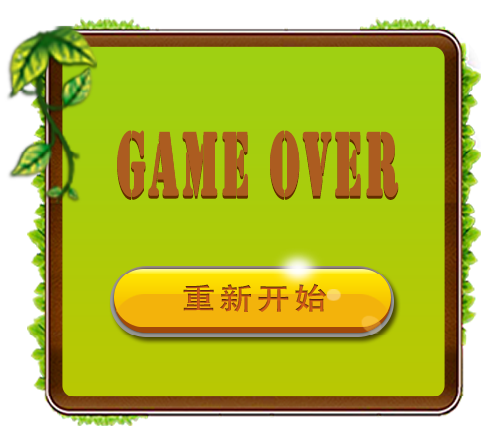
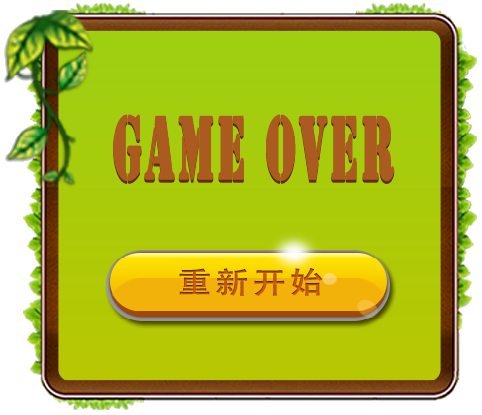
增加进度条

diff --git a/index.html b/index.html
@@ -28,7 +28,7 @@
             left: 0%;
             width: 100%;
             height: 100%;
-            background-color: #ffffff;
+            background-color: #f6fcff;
             z-index: 1001;
             -moz-opacity: 0.8;
             opacity: .80;
@@ -39,10 +39,9 @@
             display: none;
             position: absolute;
             top: 18%;
-            left: 30%;
-            width: 405px;
-            height: 405px;
-            background-color: white;
+            left: 35%;
+            width: 505px;
+            height: 505px;
             z-index: 1002; /* 数字的大小指明了div的相对层，数字大的在上层 */
             overflow: auto;
         }
@@ -59,7 +58,7 @@
 </div>
 
 <div id="game_over" class="white_content">
-    <img width="400px" height="400px" src='Images/bg0.png' onclick="re_start()"/></img>
+    <img src='Images/bg123.gif' onclick="re_start()"/></img>
 </div>
 <div id="fade" class="black_overlay"></div>
 
@@ -133,7 +132,7 @@ window.onload = function () {
         var goldArr = [];
         var goldRun = [];
         var zidanArr = [];
-        var bottomL = intgerArr.length * 80;
+        var bottomL = intgerArr.length * 80+120;
         gun.x = oCans.offsetWidth / 2;
         gun.y = oCans.offsetHeight - 70;
         pig.arcX = result['pig'].width / 2;
@@ -177,17 +176,18 @@ window.onload = function () {
 //	 			document.title = zidanArr.length+'/'+fashArr.length+'/'+goldArr.length+'/'+goldRun.length;
             oGc.drawImage
 
-            //进度条背景图
-            var x0 = oCans.offsetWidth - 398;
+            //进度条
+            var x0 = oCans.offsetWidth - 1398;
             var y0 = 12;
-            var w0 = 377 / 60;
-            oGc.drawImage(result['lick_bg'], oCans.offsetWidth - 400, 10, 377, 40);
-            oGc.drawImage(result['lick_sAndE'], 0, 0, 7, 38, oCans.offsetWidth - 398, 12, w0, 42);
-            for (var j = 1; j < countdown; j++) {
-                oGc.drawImage(result['lick_middle'], x0 + j * w0, 12, w0, 36);
+            var w0 = 373 / 60;
+            oGc.drawImage(result['lick_bg'], x0-2, y0-2, 377, 40);
+            if (countdown != 0) {
+                oGc.drawImage(result['lick_sAndE'], 0, 0, 7, 38, x0, y0, w0, 42);
+                for (var j =  1; j < countdown; j++) {
+                    oGc.drawImage(result['lick_middle'], x0 + j * w0, y0, w0, 36);
+                }
+                oGc.drawImage(result['lick_sAndE'], 7, 0, 7, 38, x0 + countdown * w0, y0, w0, 42);
             }
-            oGc.drawImage(result['lick_sAndE'], 7, 0, 7, 38, x0 + countdown * w0, 12, w0, 42);
-
             /*oGc.drawImage(result['lick_content'],oCans.offsetWidth -366/5*countdown,0,366/5*countdown,40,oCans.offsetWidth -366/5*countdown,11,7,40);*/
             //子弹
             for (i = 0; i < zidanArr.length; i++) {
